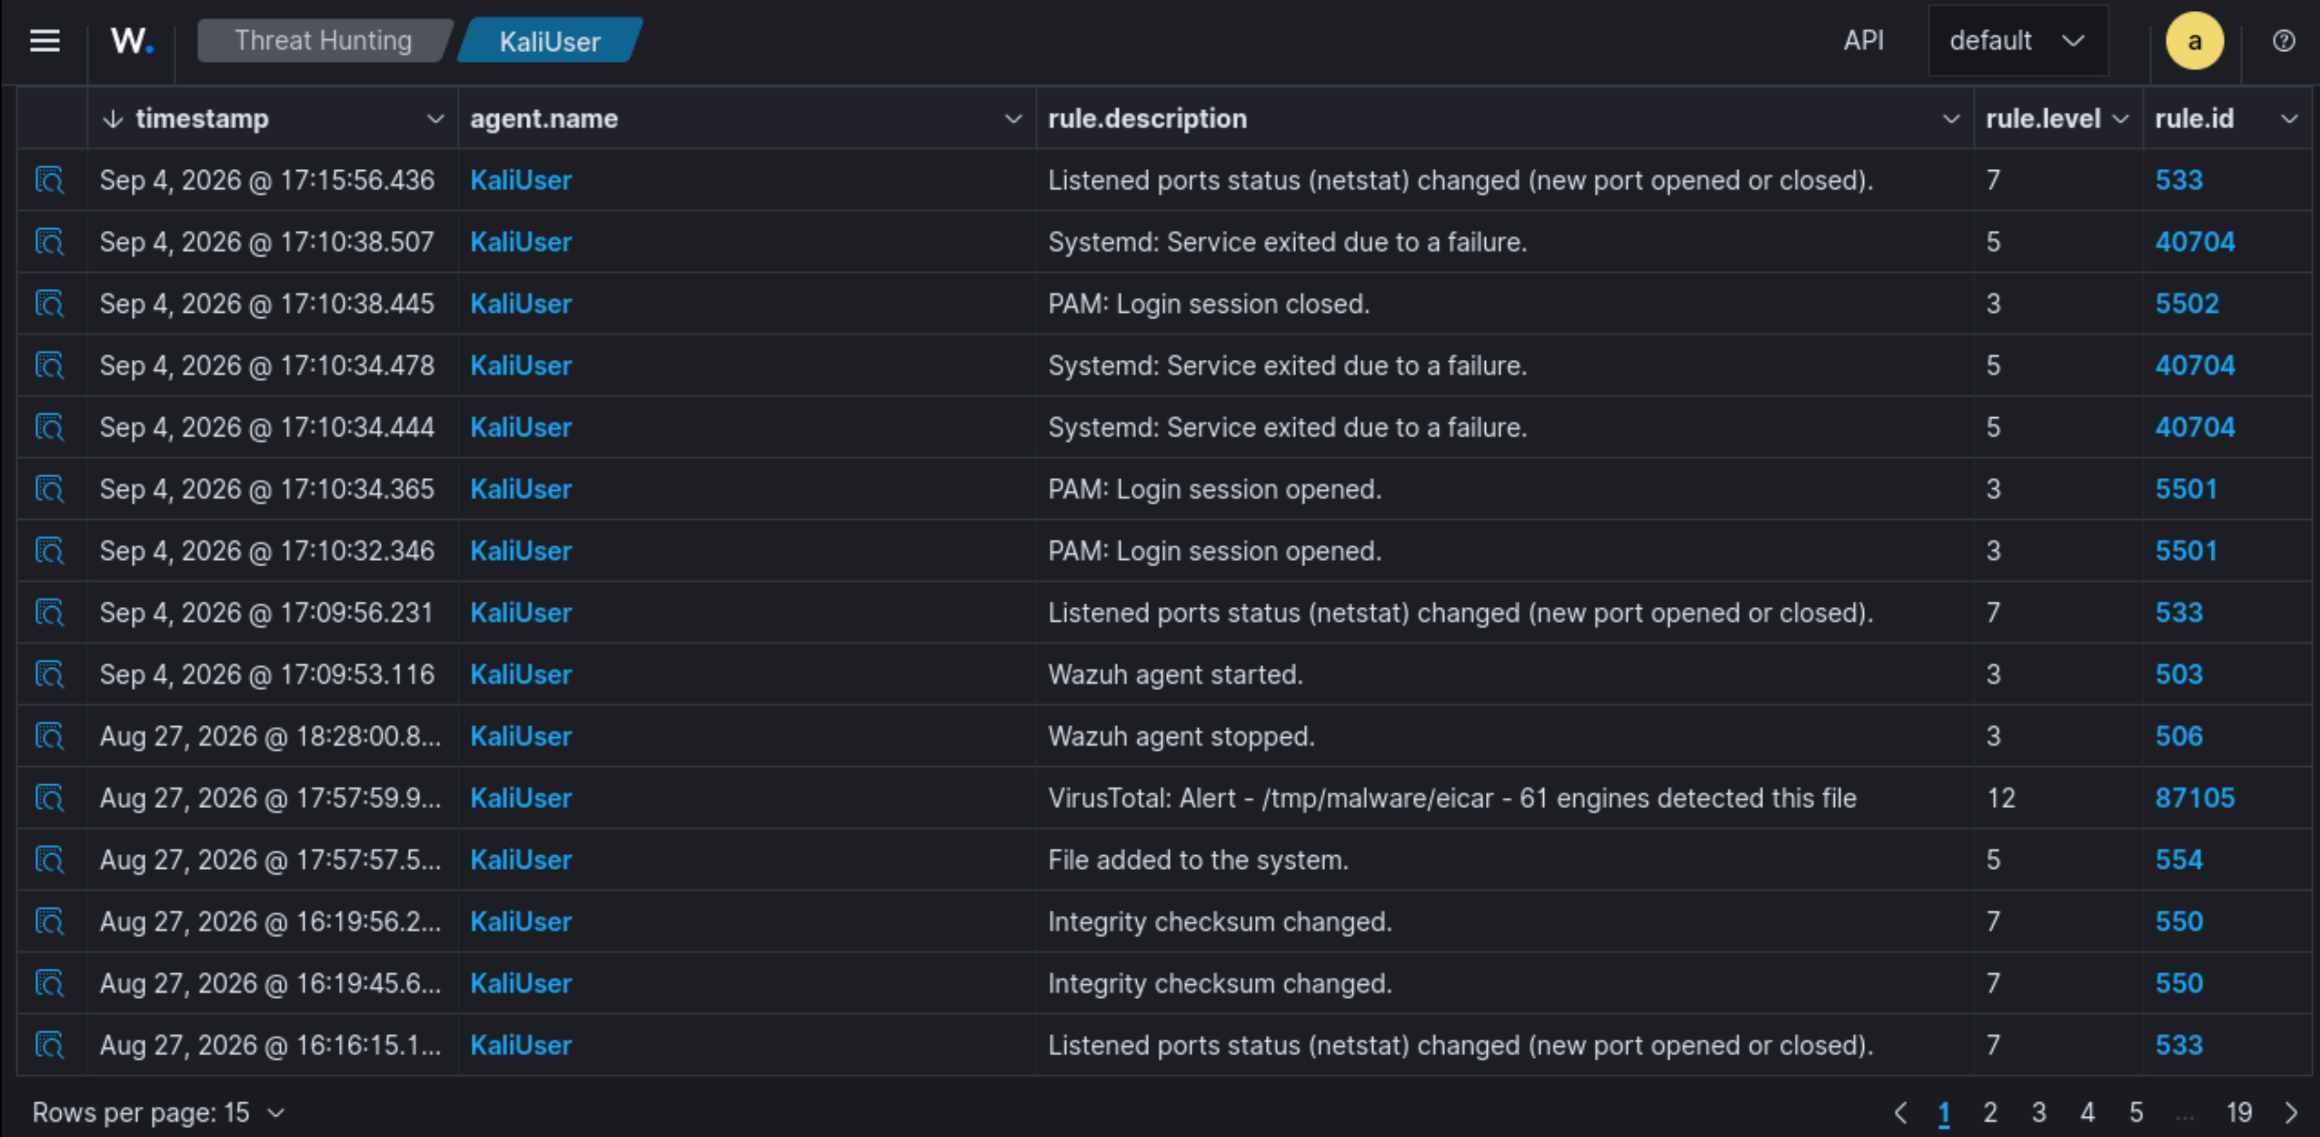
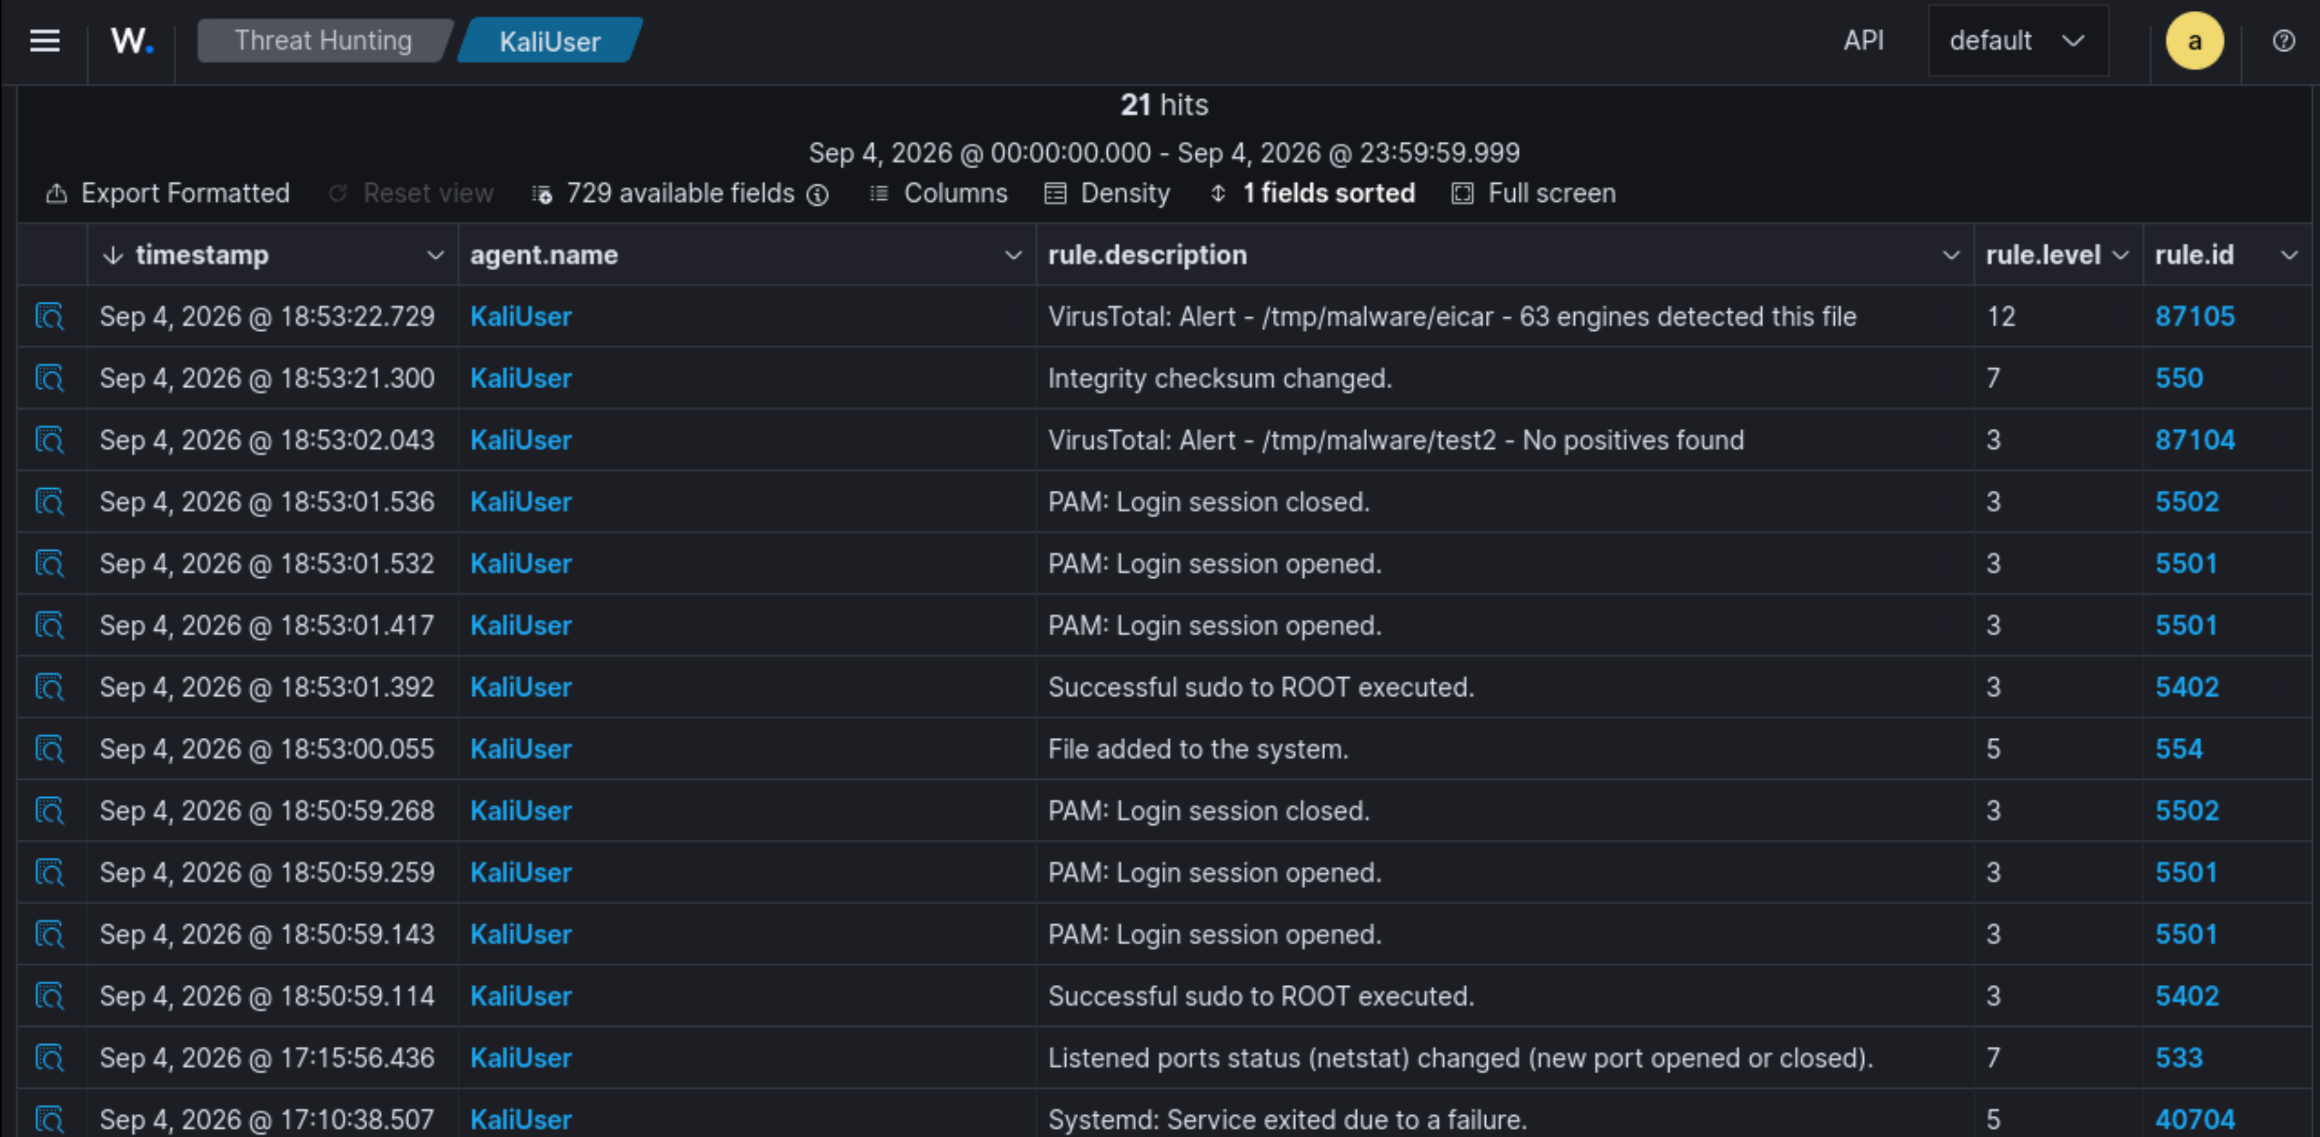
chore: update screenshot

diff --git a/README.md b/README.md
@@ -66,7 +66,7 @@ Wazuh File Integrity Monitoring (FIM) displayed registry changes
 
 **Action:**
 - Integrate VirusTotal into Wazuh
-- Installed eicar malware into /tmp/malware directory
+- Installed eicar malware into /tmp/malware/ directory
 
 **Result:**
 Wazuh threat hunting monitoring displayed alert for eicar file
